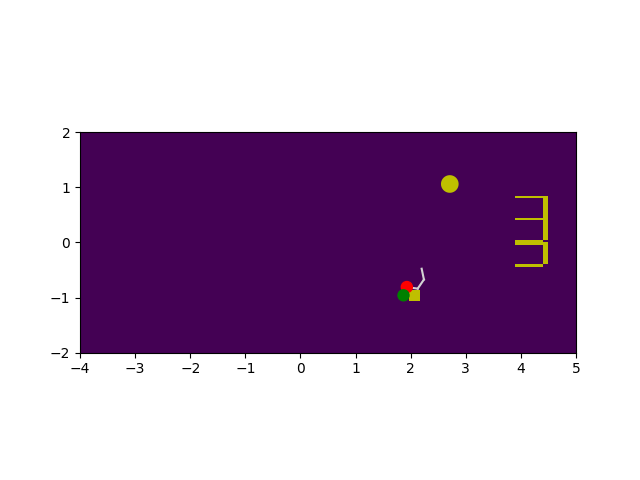
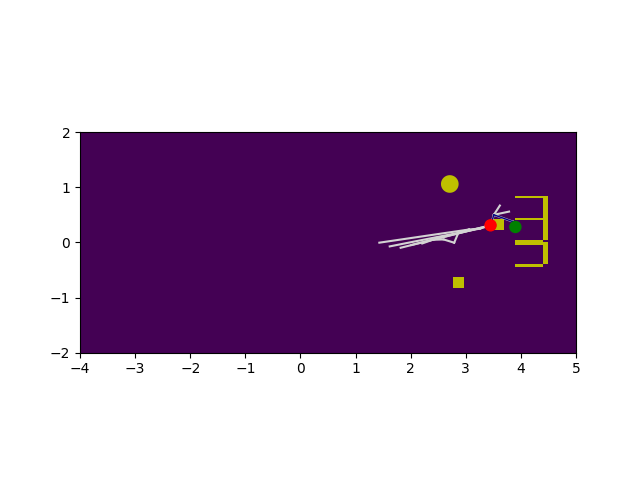
Refactor chaser data handling to simplify frame processing and update target handling for multiple cubes

Changed region(s): [[0.5938, 0.4375, 0.8125, 0.5312], [0.625, 0.5625, 0.75, 0.625]]

diff --git a/our_code/4-main.py b/our_code/4-main.py
@@ -53,20 +53,21 @@ def receive_new_frame(data_frame: DataFrame):
     global c_pos, c_rot, c_rad
     global t_pos, t_rot, t_rad
     global t_pos2, t_rot2, t_rad2  # Add variables for ctf_cube2
+    global t_pos1, t_rot1, t_rad1  # Add variables for ctf_cube1
 
     for ms in data_frame.rigid_bodies:
         if ms.id_num == 605:
             # Handle the chaser's data
-            c_pos, c_rot, c_rad = chaser_data_handling.handle_frame(ms, "ctf_car")
+            c_pos, c_rot, c_rad = chaser_data_handling.handle_frame(ms)
         if ms.id_num == y:
             # Handle the target's data (ctf_cube)
-            t_pos, t_rot, t_rad = chaser_data_handling.handle_frame(ms, "ctf_cube")
+            t_pos, t_rot, t_rad = chaser_data_handling.handle_frame(ms)
         if ms.id_num == 604:
             # Handle the second cube's data (ctf_cube2)
             t_pos1, t_rot1, t_rad1 = chaser_data_handling.handle_frame(ms)
         if ms.id_num == 606:
             # Handle the second cube's data (ctf_cube2)
-            t_pos2, t_rot2, t_rad2 = chaser_data_handling.handle_frame(ms, "ctf_cube2")
+            t_pos2, t_rot2, t_rad2 = chaser_data_handling.handle_frame(ms)
         
     #print("received new frame")
 
@@ -212,7 +213,7 @@ def go_to_goal(goal_pos):
             print("Current position:", go_to_pos)
             turnToTarget(False, go_to_pos)
             GoToTarget(False, go_to_pos)
-            if dist(t_pos1[0], cur_t_pos[0], t_pos1[2], cur_t_pos[2]) > 0.1 or dist(t_pos2[0], cur_t_pos2[0], t_pos2[2], cur_t_pos2[2]) > 0.1:
+            if dist(t_pos1[0], cur_t_pos[0], t_pos1[2], cur_t_pos[2]) > 0.1 or( dist(t_pos2[0], cur_t_pos2[0], t_pos2[2], cur_t_pos2[2]) > 0.1 and goal_pos[2] != 0.28):
                 print("continue")
                 finshed = False
                 break
@@ -228,7 +229,7 @@ def get_path_to_target():
     while not finshed:
         streaming_client.update_sync()
         cur_t_pos2 = t_pos2  # Use the current position of t_pos2
-        cur_t_pos = t_pos  # Use the current position of t_pos
+        cur_t_pos = t_pos1  # Use the current position of t_pos
         plan = get_path_to_goal(c_pos, t_pos, [t_pos1])  # Pass t_pos1 as a dynamic obstacle
         finshed = True
         for i in range(len(plan) - 1):
@@ -242,6 +243,7 @@ def get_path_to_target():
                 print("continue")
                 finshed = False
                 break
+        print(f"{finshed}AAAAAAAAAAAAAAAAAAAAAAAAAAAAAAAAAAAAAAAAAA")
           
 
 try:

diff --git a/our_code/chaser_data_handling.py b/our_code/chaser_data_handling.py
@@ -11,7 +11,7 @@ import math
 # target_trajectory_y = []
 
 
-def handle_frame(ms, name):
+def handle_frame(ms):
     location_yup = np.array(ms.pos)
     quaternion_yup = np.array(ms.rot)
     location_zup, euler_angles_zup = conversion.convert_yup_to_zup(location_yup, quaternion_yup)
